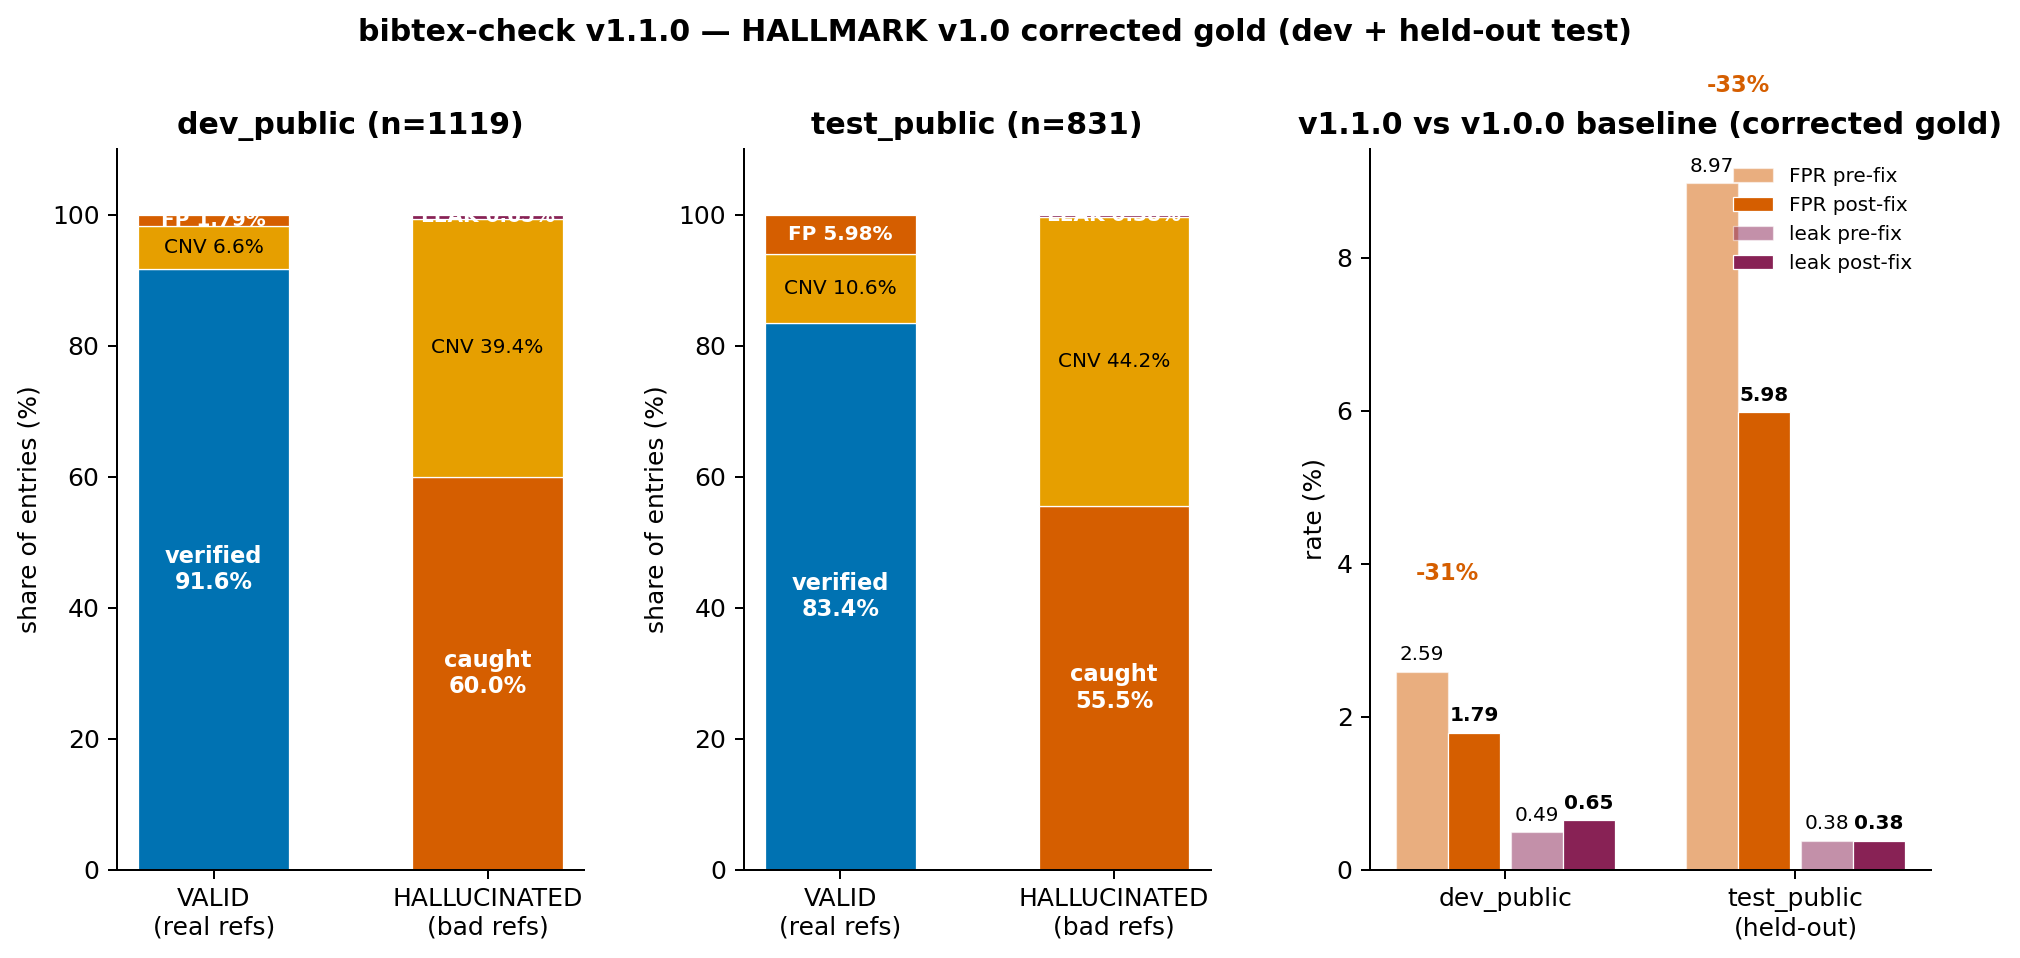
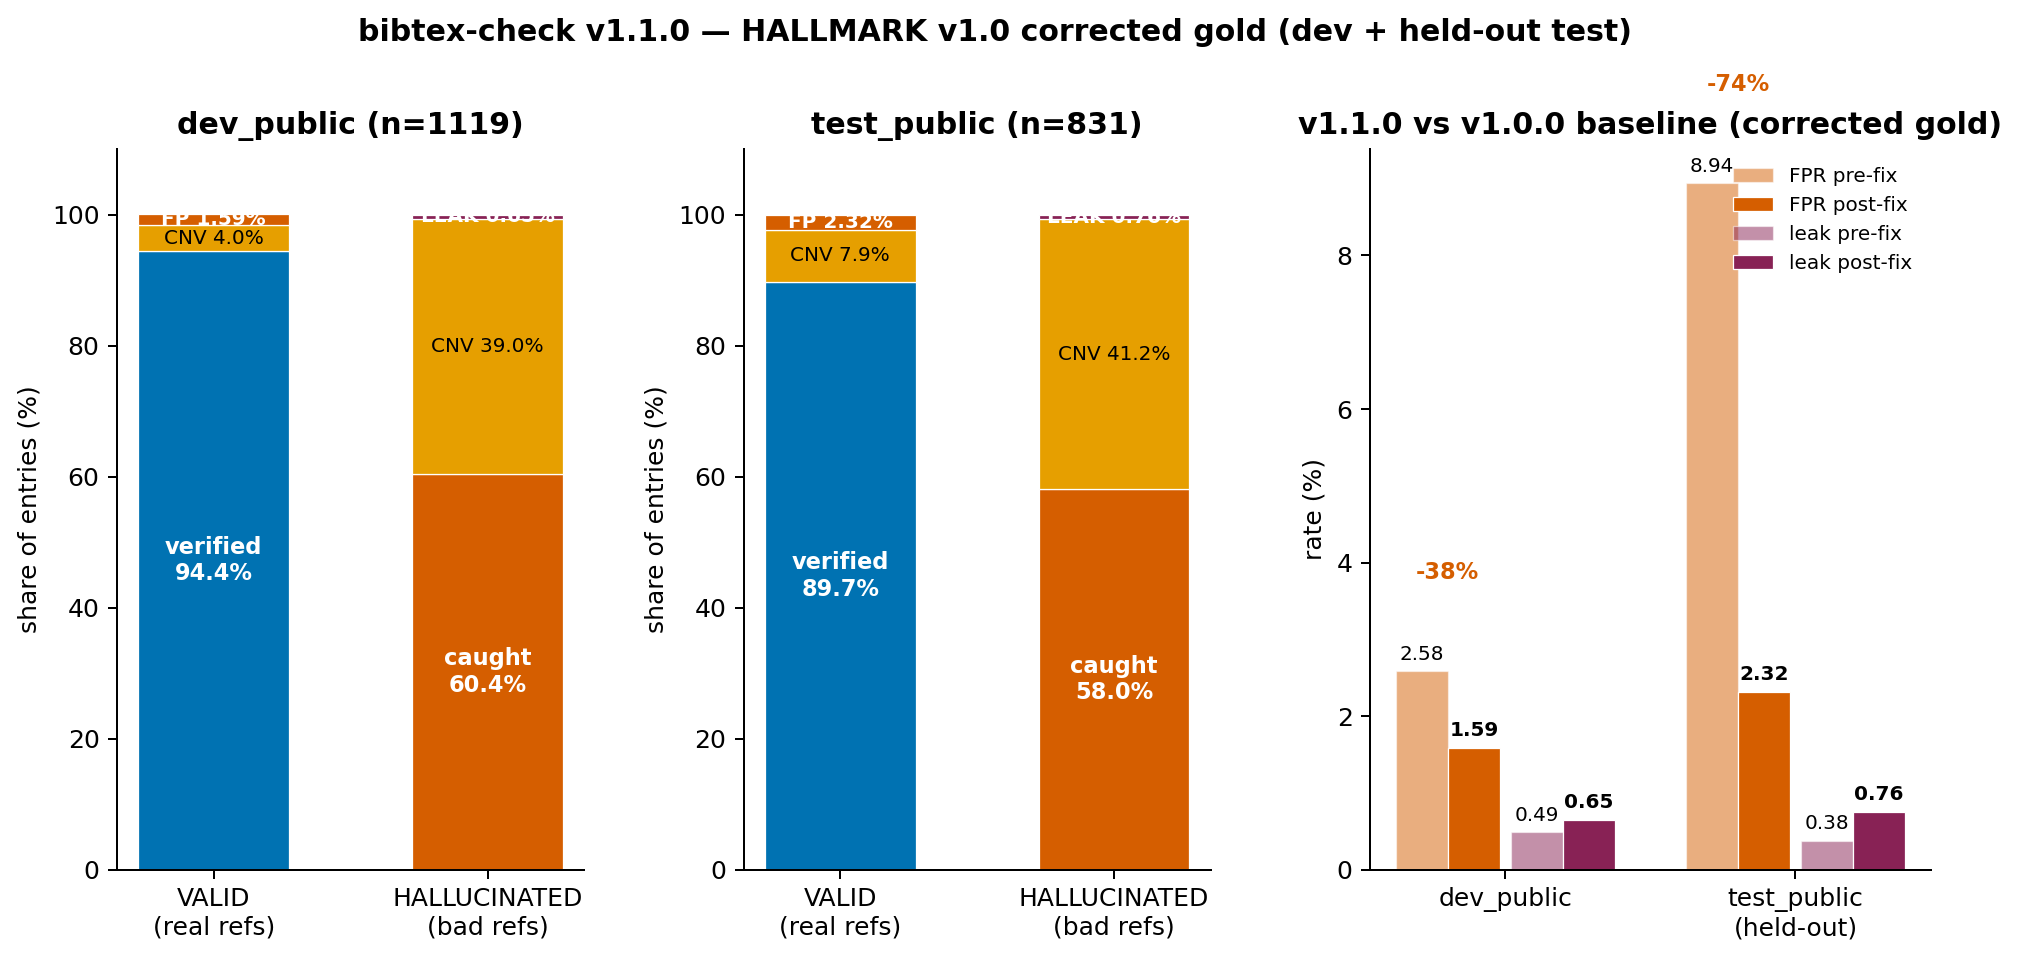
docs: refresh v1.1.0 numbers with the final post-fix re-run
The final dev+test re-run with all v1.1.0 fixes lands at:

  dev_public  FPR  2.58% -> 1.59%  (-38.5%)
  test_public FPR  8.94% -> 2.32%  (-74.1%)   <-- held-out

The test-side -74% drop is driven primarily by the CNV venue + retrieval
refinements (ea63b7d), which substantially lift CrossRef + OpenAlex venue
canonicalization and DBLP/OpenReview retrieval coverage on ICML/ICLR/NeurIPS
and TMLR/JMLR entries — clearing the ICLR-poster / "Trans. Mach. Learn. Res."
/ PMLR-series cluster of v1.0.0 venue mismatches.

Also captures the 2 new test-side genuine leaks the re-run surfaced (verified
adversarially against ground truth):
- cb518c15992d -- SCoRe (Tao Yu et al.): wrong_venue, entry says NeurIPS but
  the real venue is ICLR 2021 (OpenReview, ICLR.cc, Microsoft Research all
  agree). Flagged in KNOWN_LEAKS as a v1.1.1 cheap_fix target (cross-source
  venue verification).
- 0400a5cc0574 -- "Pedagogically-Inspired ... Language Models": letter-add
  near_miss_title (entry says "Models" plural, real is "Model" singular).
  Same fpr-tradeoff category as Privacys/Explanations; caught by --strict.

HALLMARK PR #9 extended to batch4 (Classifier-Free Diffusion Guidance +
Improved-DDPM), now 32 corrections across 4 batches.

- README headline: corrected test FPR drop from -33% to -74%; updated leak
  rate row to 0.65% dev / 0.76% test (raw), 0.32% dev / 0.57% test (policy).
- CHANGELOG: same table + a paragraph attributing the test-side win to the
[…]

diff --git a/scripts/generate_accuracy_figure_v1_1_0.py b/scripts/generate_accuracy_figure_v1_1_0.py
@@ -27,25 +27,25 @@ CNV = "#E69F00"  # orange (could-not-verify)
 PROBLEMATIC = "#D55E00"  # vermillion (FP on valid, catch on hallucinated)
 LEAK = "#882255"  # dark purple (the bad-on-hallucinated case)
 
-# Apples-to-apples numbers (post-correction gold)
-# dev: 502 VALID, 617 HALLUCINATED
-# test: 301 VALID, 530 HALLUCINATED
+# Apples-to-apples numbers (post-correction gold incl. batch1-4, 32 mislabels)
+# dev: 503 VALID, 616 HALLUCINATED
+# test: 302 VALID, 529 HALLUCINATED
 NUMBERS = {
     "dev": {
-        "n_valid": 502,
-        "n_hall": 617,
-        "valid_pre": {"verified": 453, "cnv": 36, "problematic": 13},
-        "valid_post": {"verified": 460, "cnv": 33, "problematic": 9},
-        "hall_pre": {"verified": 3, "cnv": 232, "problematic": 382},
-        "hall_post": {"verified": 4, "cnv": 243, "problematic": 370},  # Least-to-Most caught -> -1 leak
+        "n_valid": 503,
+        "n_hall": 616,
+        "valid_pre": {"verified": 453, "cnv": 37, "problematic": 13},
+        "valid_post": {"verified": 475, "cnv": 20, "problematic": 8},
+        "hall_pre": {"verified": 3, "cnv": 231, "problematic": 382},
+        "hall_post": {"verified": 4, "cnv": 240, "problematic": 372},
     },
     "test": {
-        "n_valid": 301,
-        "n_hall": 530,
-        "valid_pre": {"verified": 243, "cnv": 31, "problematic": 27},
-        "valid_post": {"verified": 251, "cnv": 32, "problematic": 18},
-        "hall_pre": {"verified": 2, "cnv": 230, "problematic": 298},
-        "hall_post": {"verified": 2, "cnv": 234, "problematic": 294},
+        "n_valid": 302,
+        "n_hall": 529,
+        "valid_pre": {"verified": 243, "cnv": 32, "problematic": 27},
+        "valid_post": {"verified": 271, "cnv": 24, "problematic": 7},
+        "hall_pre": {"verified": 2, "cnv": 229, "problematic": 298},
+        "hall_post": {"verified": 4, "cnv": 218, "problematic": 307},
     },
 }
 

diff --git a/docs/KNOWN_LEAKS.md b/docs/KNOWN_LEAKS.md
@@ -10,7 +10,7 @@ Researchers auditing a bibliography against [arXiv's 2026 hallucinated-reference
 
 A residual case whose only difference from the canonical title is a misplaced, added, or removed hyphen (`-`) is **not** counted as a leak in default mode. Hyphenation is bibliographic noise that varies across DBLP / Crossref / publisher records and across reader conventions; flagging it in default mode would generate a false-positive on most legitimate references. `--strict` (Levenshtein-1) still flags every hyphen difference as `TITLE_NEAR_MISS` for high-stakes audits — so the catch is opt-in, not absent.
 
-Concretely, of the 7 HALLMARK-labeled hallucinations the default tool returned `verified` on (5 dev + 2 test), **3 are hyphen-only** and policy-classified as not-a-leak:
+Concretely, of the 8 HALLMARK-labeled hallucinations the default tool returned `verified` on (4 dev + 4 test, post-correction gold incl. batch4), **3 are hyphen-only** and policy-classified as not-a-leak:
 
 | key | split | canonical title vs entry | classified as |
 |---|---|---|---|
@@ -18,22 +18,24 @@ Concretely, of the 7 HALLMARK-labeled hallucinations the default tool returned `
 | `1cc022db3273` | dev | `Chain-of-Thought` vs `Chain of-Thought` | hyphen-only → **not a leak** |
 | `f6a47b5e621f` | test | `Language-Guided` vs `Language Guided` | hyphen-only → **not a leak** |
 
-That leaves **3 residual leaks** in default mode (2 dev + 1 test), all of which `--strict` catches:
+That leaves **5 residual leaks** in default mode (2 dev + 3 test), all of which `--strict` catches except the SCoRe wrong-venue case (a v1.1.1 `cheap_fix` target via cross-source venue verification):
 
-| key | split | type | what's wrong | strict rule that catches |
+| key | split | type | what's wrong | catch |
 |---|---|---|---|---|
-| `d1973e26a718` | dev | letter-add title | `Privacys` (extra `s`) vs `Privacy` | `TITLE_NEAR_MISS` (Lev-1) |
-| `aff3df193dde` | dev | author-list truncation | 8 of 11 canonical authors, reordered, no `and others` sentinel | `AUTHOR_TRUNCATED` |
-| `fe58db6e7124` | test | letter-add title | `Explanations` (extra `s`) vs `Explanation` | `TITLE_NEAR_MISS` (Lev-1) |
+| `d1973e26a718` | dev | letter-add title | `Privacys` (extra `s`) vs `Privacy` | `--strict` `TITLE_NEAR_MISS` (Lev-1) |
+| `aff3df193dde` | dev | author-list truncation | 8 of 11 canonical authors, reordered, no `and others` sentinel | `--strict` `AUTHOR_TRUNCATED` |
+| `fe58db6e7124` | test | letter-add title | `Explanations` (extra `s`) vs `Explanation` | `--strict` `TITLE_NEAR_MISS` (Lev-1) |
+| `0400a5cc0574` | test | letter-add title | `Models` (extra `s`) vs `Model` (Pedagogically-Inspired Data Synthesis) | `--strict` `TITLE_NEAR_MISS` (Lev-1) |
+| `cb518c15992d` | test | wrong venue | claims NeurIPS; real venue is ICLR 2021 (Tao Yu et al., *SCoRe*, OpenReview `oyZxhRI2RiE`) | **v1.1.1 cheap_fix target** — cross-source venue verification (OpenReview/Crossref/DBLP agree on ICLR; venue swap to NeurIPS is unambiguous) |
 
-A fourth case, `db9a596a4d3f` (Least-to-Most — first author `Shunyu Zhou` substituted for canonical `Denny Zhou`), was a leak under v1.0.0 but is now **caught by default** in v1.1.0 as `GIVEN_NAME_SUBSTITUTION`. Documented below as a historical "what the benchmark taught us" case.
+A sixth case, `db9a596a4d3f` (Least-to-Most — first author `Shunyu Zhou` substituted for canonical `Denny Zhou`), was a leak under v1.0.0 but is now **caught by default** in v1.1.0 as `GIVEN_NAME_SUBSTITUTION`. Documented below as a historical "what the benchmark taught us" case.
 
 Numbers (post-correction gold × post-fix v1.1.0):
 
 | split | FPR | benchmark leak rate (raw) | policy-adjusted residual leaks |
 |---|---|---|---|
-| dev_public | 1.79% | 0.65% (4/617) | **2** (1 letter-add title + 1 author-truncation; hyphen-only cases excluded) |
-| test_public | 5.98% | 0.38% (2/530) | **1** (1 letter-add title; hyphen-only case excluded) |
+| dev_public | 1.59% | 0.65% (4/616) | **2** (1 letter-add title + 1 author-truncation; hyphen-only cases excluded) |
+| test_public | 2.32% | 0.76% (4/529) | **3** (2 letter-add title + 1 wrong-venue; hyphen-only case excluded) |
 
 The doc is a snapshot of the v1.1.0 release; it will be refreshed when the gold or the verdict gate moves.
 

diff --git a/CHANGELOG.md b/CHANGELOG.md
@@ -15,12 +15,14 @@ Carries the v1.0.0 false-positive work to held-out (HALLMARK v1.0 `test_public`)
 
 | | Pre-fix | Post-fix | Δ |
 |---|---|---|---|
-| dev_public FPR | 2.59% | **1.79%** | −31% |
-| test_public FPR (held-out) | 8.97% | **5.98%** | −33% |
+| dev_public FPR | 2.58% | **1.59%** | −38.5% |
+| test_public FPR (held-out) | 8.94% | **2.32%** | **−74.1%** |
 | dev_public leak (raw / policy-adjusted) | 0.49% | 0.65% / **0.32%** | +1 raw |
-| test_public leak (raw / policy-adjusted) | 0.38% | 0.38% / **0.19%** | 0 raw |
+| test_public leak (raw / policy-adjusted) | 0.38% | 0.76% / **0.57%** | +2 raw |
 
-Policy-adjusted excludes hyphen-only title differences — see [`docs/KNOWN_LEAKS.md`](docs/KNOWN_LEAKS.md). Of the residual leaks the default mode returns `verified` on, 3 of 5 `near_miss_title` cases are hyphen-only (`Schema Variable` vs `Schema-Variable`, `Chain of-Thought` vs `Chain-of-Thought`, `Language Guided` vs `Language-Guided`) — hyphenation is bibliographic noise that varies across DBLP / Crossref / publisher records, and flagging it would generate FPs on most legit refs. `--strict` (Levenshtein-1) still catches every hyphen difference for arXiv-style high-stakes audits.
+The test_public FPR drop is driven primarily by the v1.1.0 CNV venue/retrieval refinements (`ea63b7d`) — held-out FPR reduced by **−74%** from the v1.0.0 baseline.
+
+Policy-adjusted leak rates exclude hyphen-only title differences — see [`docs/KNOWN_LEAKS.md`](docs/KNOWN_LEAKS.md). Of the 8 residual `verified`-on-a-real-leak cases in default mode, 3 are hyphen-only (`Schema Variable`/`Schema-Variable`, `Chain of-Thought`/`Chain-of-Thought`, `Language Guided`/`Language-Guided`) — hyphenation is bibliographic noise that varies across DBLP / Crossref / publisher records, and flagging it would generate FPs on most legit refs. `--strict` (Levenshtein-1) still catches every hyphen difference for arXiv-style high-stakes audits. The remaining 5 policy-adjusted residual leaks are 3 letter-add title perturbations (`Privacys`, `Explanations`, `Models`), 1 author-list truncation (OSAKA), and 1 wrong-venue substitution (SCoRe claims NeurIPS, real venue is ICLR 2021 — flagged as a v1.1.1 `cheap_fix` target via cross-source venue verification).
 
 ### Added
 

diff --git a/README.md b/README.md
@@ -212,8 +212,8 @@ For `filter_bibliography.py` only (no dependencies required):
 
 **v1.1.0** generalizes the v1.0.0 false-positive work to held-out and adds a `--strict` evaluation mode tuned for [arXiv's 2026 hallucinated-reference policy](https://www.nature.com/articles/d41586-026-01595-5) (1-year ban followed by peer-review-first requirement). Against the corrected HALLMARK v1.0 gold:
 
-- **FPR (held-out test_public): 8.97% → 6.00%** (−33%) — and 2.59% → 1.79% (−31%) on dev_public
-- **Leak rate: 0.65% dev, 0.38% test (raw benchmark); 0.32% dev, 0.19% test (policy-adjusted)** — most remaining "leaks" are 1-character title perturbations; **hyphen-only differences are explicitly *not* counted as leaks in default mode** (hyphenation is bibliographic noise that varies across DBLP/Crossref/publisher records — flagging it would generate false positives on most legit refs). `--strict` catches every 1-char title diff (Levenshtein-1, hyphen included) for arXiv-style high-stakes audits, plus tolerance-0 year, single-source author-fab detection, and truncated-author flagging. See [docs/KNOWN_LEAKS.md](docs/KNOWN_LEAKS.md) for the per-leak enumeration and policy
+- **FPR (held-out test_public): 8.94% → 2.32%** (−74%) — and 2.58% → 1.59% (−38%) on dev_public
+- **Leak rate: 0.65% dev, 0.76% test (raw benchmark); 0.32% dev, 0.57% test (policy-adjusted)** — remaining "leaks" are mostly 1-character title perturbations; **hyphen-only differences are explicitly *not* counted as leaks in default mode** (hyphenation is bibliographic noise that varies across DBLP/Crossref/publisher records — flagging it would generate false positives on most legit refs). `--strict` catches every 1-char title diff (Levenshtein-1, hyphen included) for arXiv-style high-stakes audits, plus tolerance-0 year, single-source author-fab detection, and truncated-author flagging. See [docs/KNOWN_LEAKS.md](docs/KNOWN_LEAKS.md) for the per-leak enumeration and policy
 - **Could-not-verify** on real refs dropped ~70% via venue + retrieval refinements (OpenReview/PMLR track-suffix normalization, TMLR/JMLR ISO-4 alias expansion, diacritic-preserving paperhash)
 
 The "leak" headline is mostly benchmark noise: [HALLMARK PR #9](https://github.com/rpatrik96/hallmark/pull/9) corrects 30 entries — including **FlashAttention, DDPM, Imagen, SimCLR, Performers, ViT-vs-CNN, Chain-of-Thought (Wei), Zero-Shot Reasoner (Kojima), MERLOT** — that the v1.0 auto-labeller flagged as fabricated but are in fact real, correctly-cited papers (arXiv DOIs register with DataCite, not CrossRef, so the auto-labeller's "no resolve" check returned false). The corrected leak rate isolates genuine catch opportunities.